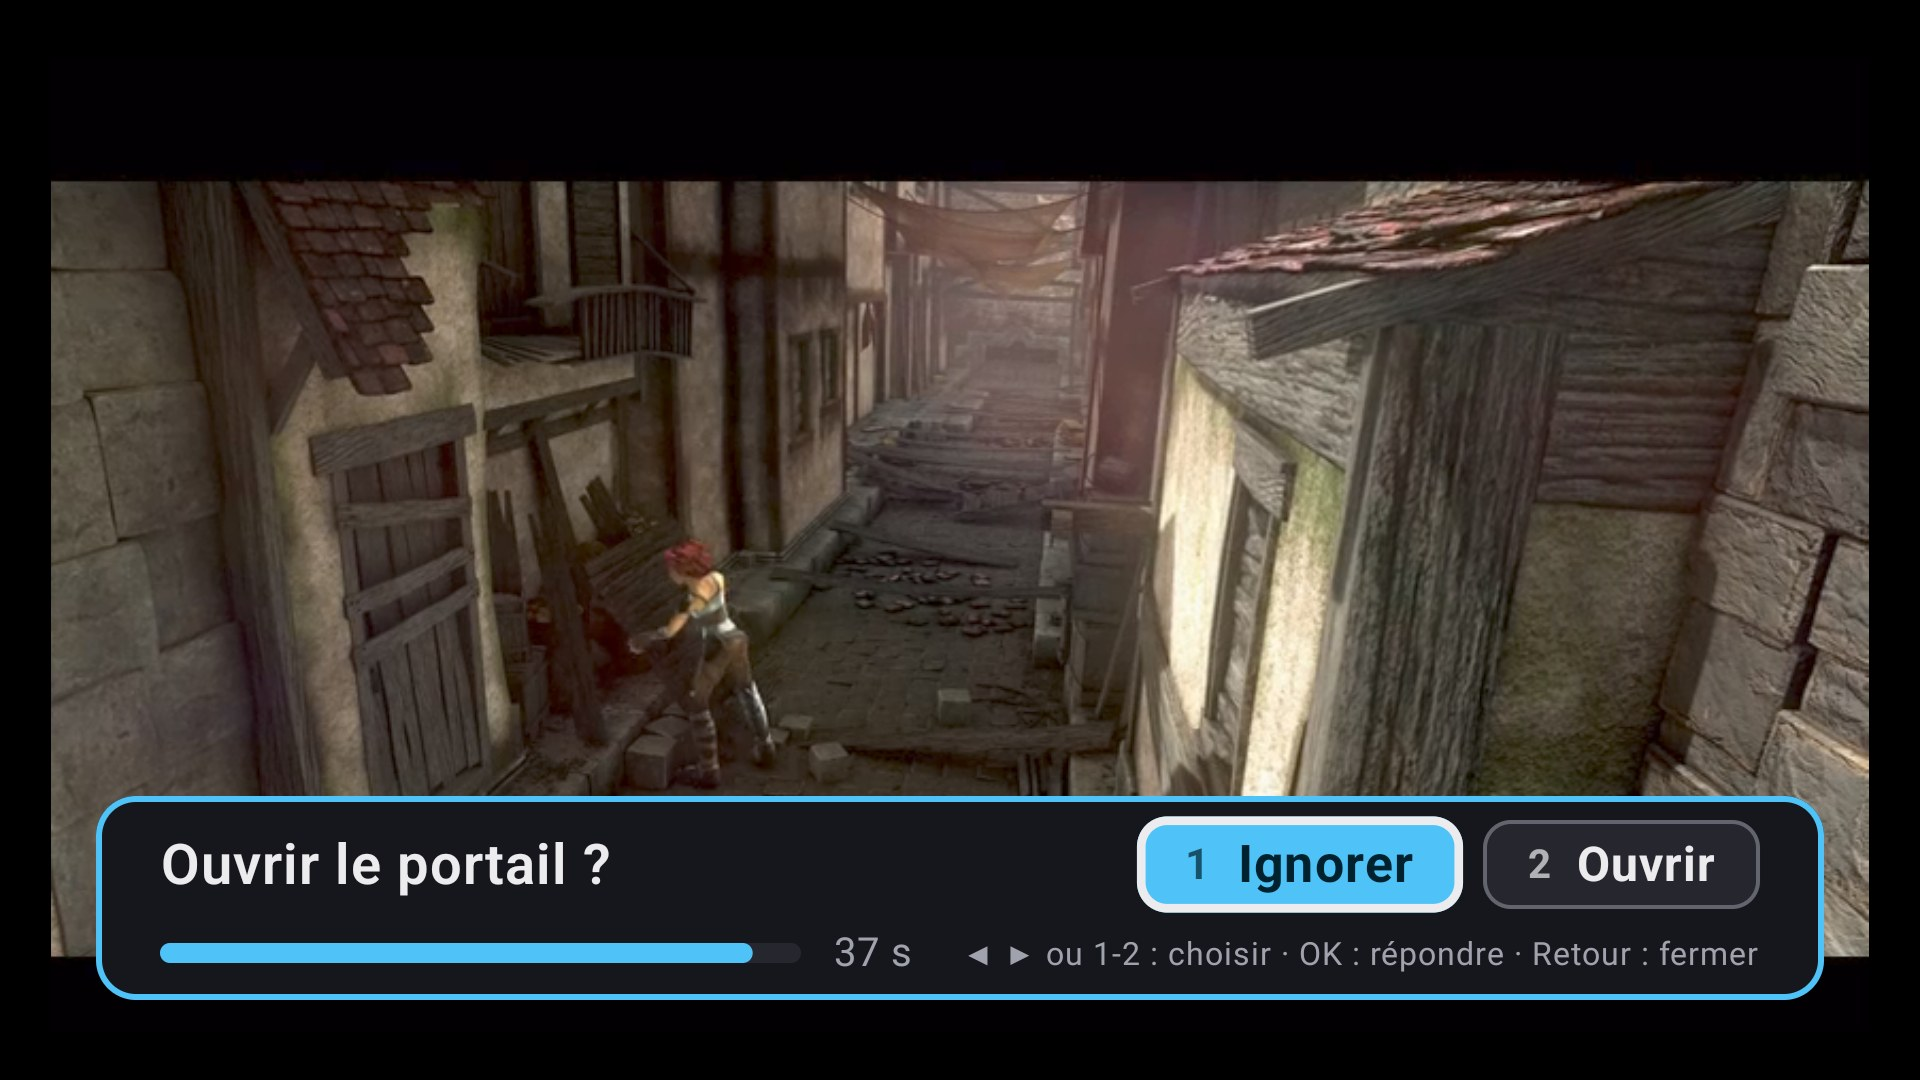
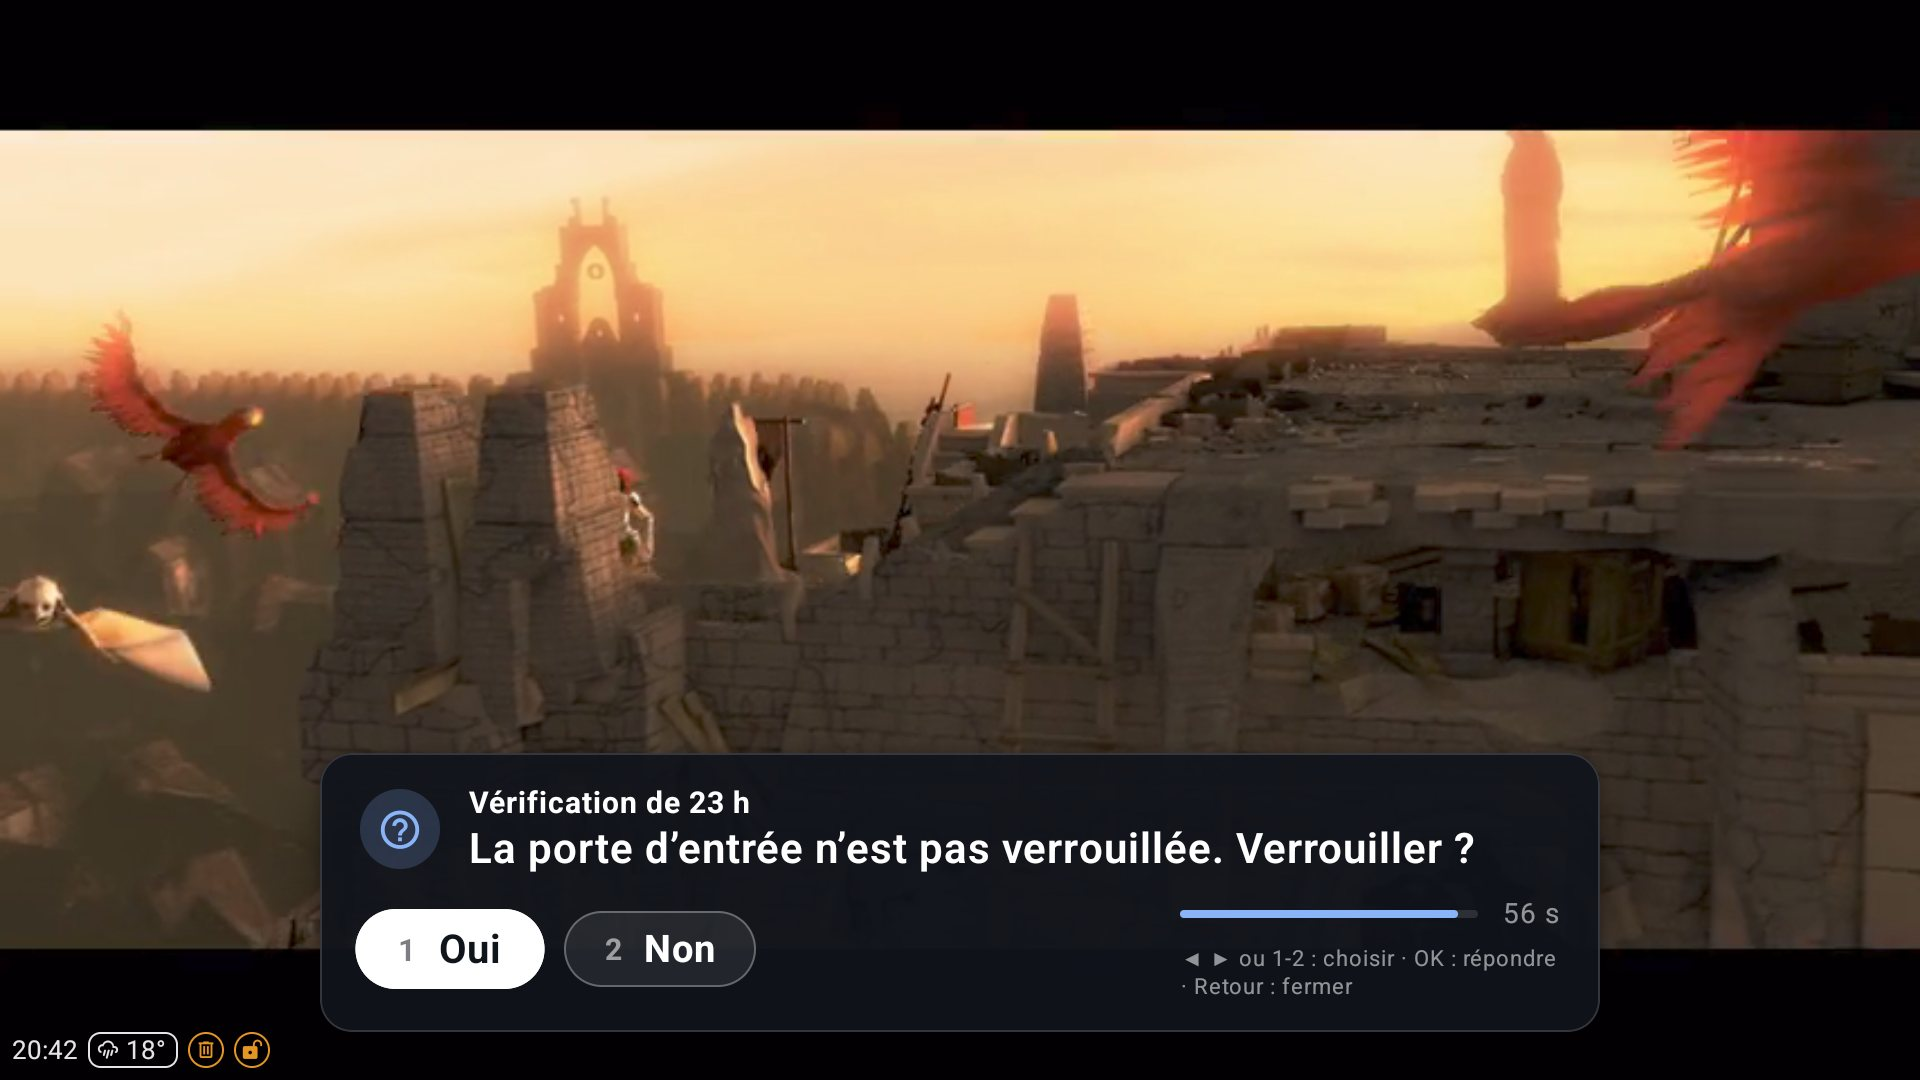
README : captures du nouveau design
- Écrans des pages, liste de choix, panneau par-dessus la télé (avec la barre
  d'état), sonnette avec la caméra en direct, question de 23 h, notification,
  carte vidéo EN DIRECT, notification avec photo et barre d'état agrandie,
  sur une maison de démonstration fictive.
- Légendes et ordre mis à jour ; remplacement de TvOverlay et licence des
  icônes Material Design dans les fonctionnalités ; crédits des vidéos.

diff --git a/README.md b/README.md
@@ -8,11 +8,11 @@ Le contrat entre l'application et le plugin est décrit dans [docs/api.md](docs/
 
 Captures en 1920×1080, avec une maison de démonstration (noms et valeurs fictifs).
 
-**Les pages, à la télécommande** : onglets, bandeau d'infos de la maison, tuiles en direct.
+**Les pages, à la télécommande** : onglets avec l'icône de la page, infos de la maison, tuiles en cartes (allumées en ambre), barre d'état en haut à droite.
 
 ![Lumières](docs/captures/01-lumieres.png)
 
-| Volets | Chauffage et clim |
+| Volets (jauge de position) | Chauffage et clim |
 |---|---|
 | ![Volets](docs/captures/02-volets.png) | ![Chauffage et clim](docs/captures/03-chauffage-clim.png) |
 | **Liste de choix** (mode de la clim) | **Caméras** (ouvertes en direct avec CameraOnTv) |
@@ -20,17 +20,23 @@ Captures en 1920×1080, avec une maison de démonstration (noms et valeurs ficti
 | **Scénarios** (Cinéma, Bonne nuit, Je pars) | **Écran de veille domotique** |
 | ![Scénarios](docs/captures/06-scenarios.png) | ![Écran de veille](docs/captures/11-ecran-de-veille.png) |
 
-**Par-dessus la télé, sans l'interrompre** : une touche de couleur ou un ordre de Jeedom ouvre le panneau ; Jeedom peut aussi poser une question (bloc « Demander » d'un scénario) ou afficher un message.
+**Par-dessus la télé, sans l'interrompre** : une touche de couleur ou un ordre de Jeedom ouvre le panneau ; la barre d'état reste dans son coin (ici en haut à gauche).
 
 ![Panneau par-dessus la télé](docs/captures/07-panneau-par-dessus-la-tele.jpg)
 
-| On sonne : photo du portier et question | « Voir » : la question passe sous la vidéo |
-|---|---|
-| ![Sonnette](docs/captures/08-sonnette-avec-photo.jpg) | ![Question sous la vidéo](docs/captures/09-question-sous-la-video.jpg) |
-| **Message avec photo** | |
-| ![Bandeau avec photo](docs/captures/10-bandeau-avec-photo.jpg) | |
+**Barre d'état** (remplace TvOverlay) : l'heure et les indicateurs de Jeedom, en permanence dans un coin de l'écran.
 
-<sub>Vidéo d'arrière-plan : *Sintel*, © Blender Foundation, [durian.blender.org](https://durian.blender.org), licence Creative Commons Attribution 3.0. Photo du portier : illustration dessinée pour la démonstration.</sub>
+![Barre d'état](docs/captures/14-barre-detat.png)
+
+| On sonne : la caméra en direct et la question | Question de 23 h, en bas de l'écran |
+|---|---|
+| ![Sonnette](docs/captures/08-sonnette-avec-photo.jpg) | ![Question sans image](docs/captures/09-question-sous-la-video.jpg) |
+| **Notification** : portail ouvert | **Vidéo en direct** de la caméra, badge EN DIRECT |
+| ![Notification](docs/captures/12-notification-portail-ouvert.jpg) | ![Carte vidéo en direct](docs/captures/13-carte-video-en-direct.jpg) |
+| **Notification avec photo** | |
+| ![Notification avec photo](docs/captures/10-bandeau-avec-photo.jpg) | |
+
+<sub>Vidéo d'arrière-plan : *Sintel*, © Blender Foundation, [durian.blender.org](https://durian.blender.org), licence Creative Commons Attribution 3.0. Vidéo « en direct » : flux public de test (*Big Buck Bunny*, © Blender Foundation, [peach.blender.org](https://peach.blender.org), licence Creative Commons Attribution 3.0). Photo du portier : illustration dessinée pour la démonstration. Icônes : Material Design Icons (voir [Licences](#licences-des-composants-tiers)).</sub>
 
 ## Fonctionnalités
 
@@ -57,7 +63,8 @@ Captures en 1920×1080, avec une maison de démonstration (noms et valeurs ficti
 - **Bandeau d'infos** : jusqu'à 6 infos de la maison (température extérieure, poubelles, production solaire…) choisies dans Jeedom, sous les onglets et dans le panneau en superposition. Voir [Bandeau d'infos](#bandeau-dinfos).
 - **Écran de veille domotique** : grande horloge, date, et les infos du bandeau en grand, à la place de l'écran ambiant Google TV. Voir [Écran de veille](#écran-de-veille-domotique).
 - **Touches de couleur** : rouge, vert, jaune et bleu ouvrent chacune une page choisie dans Jeedom, même par-dessus la télé. Voir [Touches de couleur](#touches-de-couleur).
-- **Barre d'état** et **notifications riches** (icône, coin, vidéo en direct de la caméra) : elles remplacent l'application TvOverlay. Voir [Barre d'état et notifications](#barre-détat-et-notifications-remplace-tvoverlay).
+- **Remplace TvOverlay** : **barre d'état** (heure et indicateurs en permanence dans un coin), **notifications riches** (icône, coin, image) et **vidéo en direct** de la caméra dans une incrustation. Voir [Barre d'état et notifications](#barre-détat-et-notifications-remplace-tvoverlay).
+- Icônes **Material Design Icons** embarquées (licence Apache 2.0, voir [Licences](#licences-des-composants-tiers)).
 - La version (« Jeedom TV 0.9.1 ») s'affiche discrètement sur l'écran de configuration.
 
 | Touche | Grille | Onglets | Mode réglage (curseur, volet avec position) | Volet sans position |
